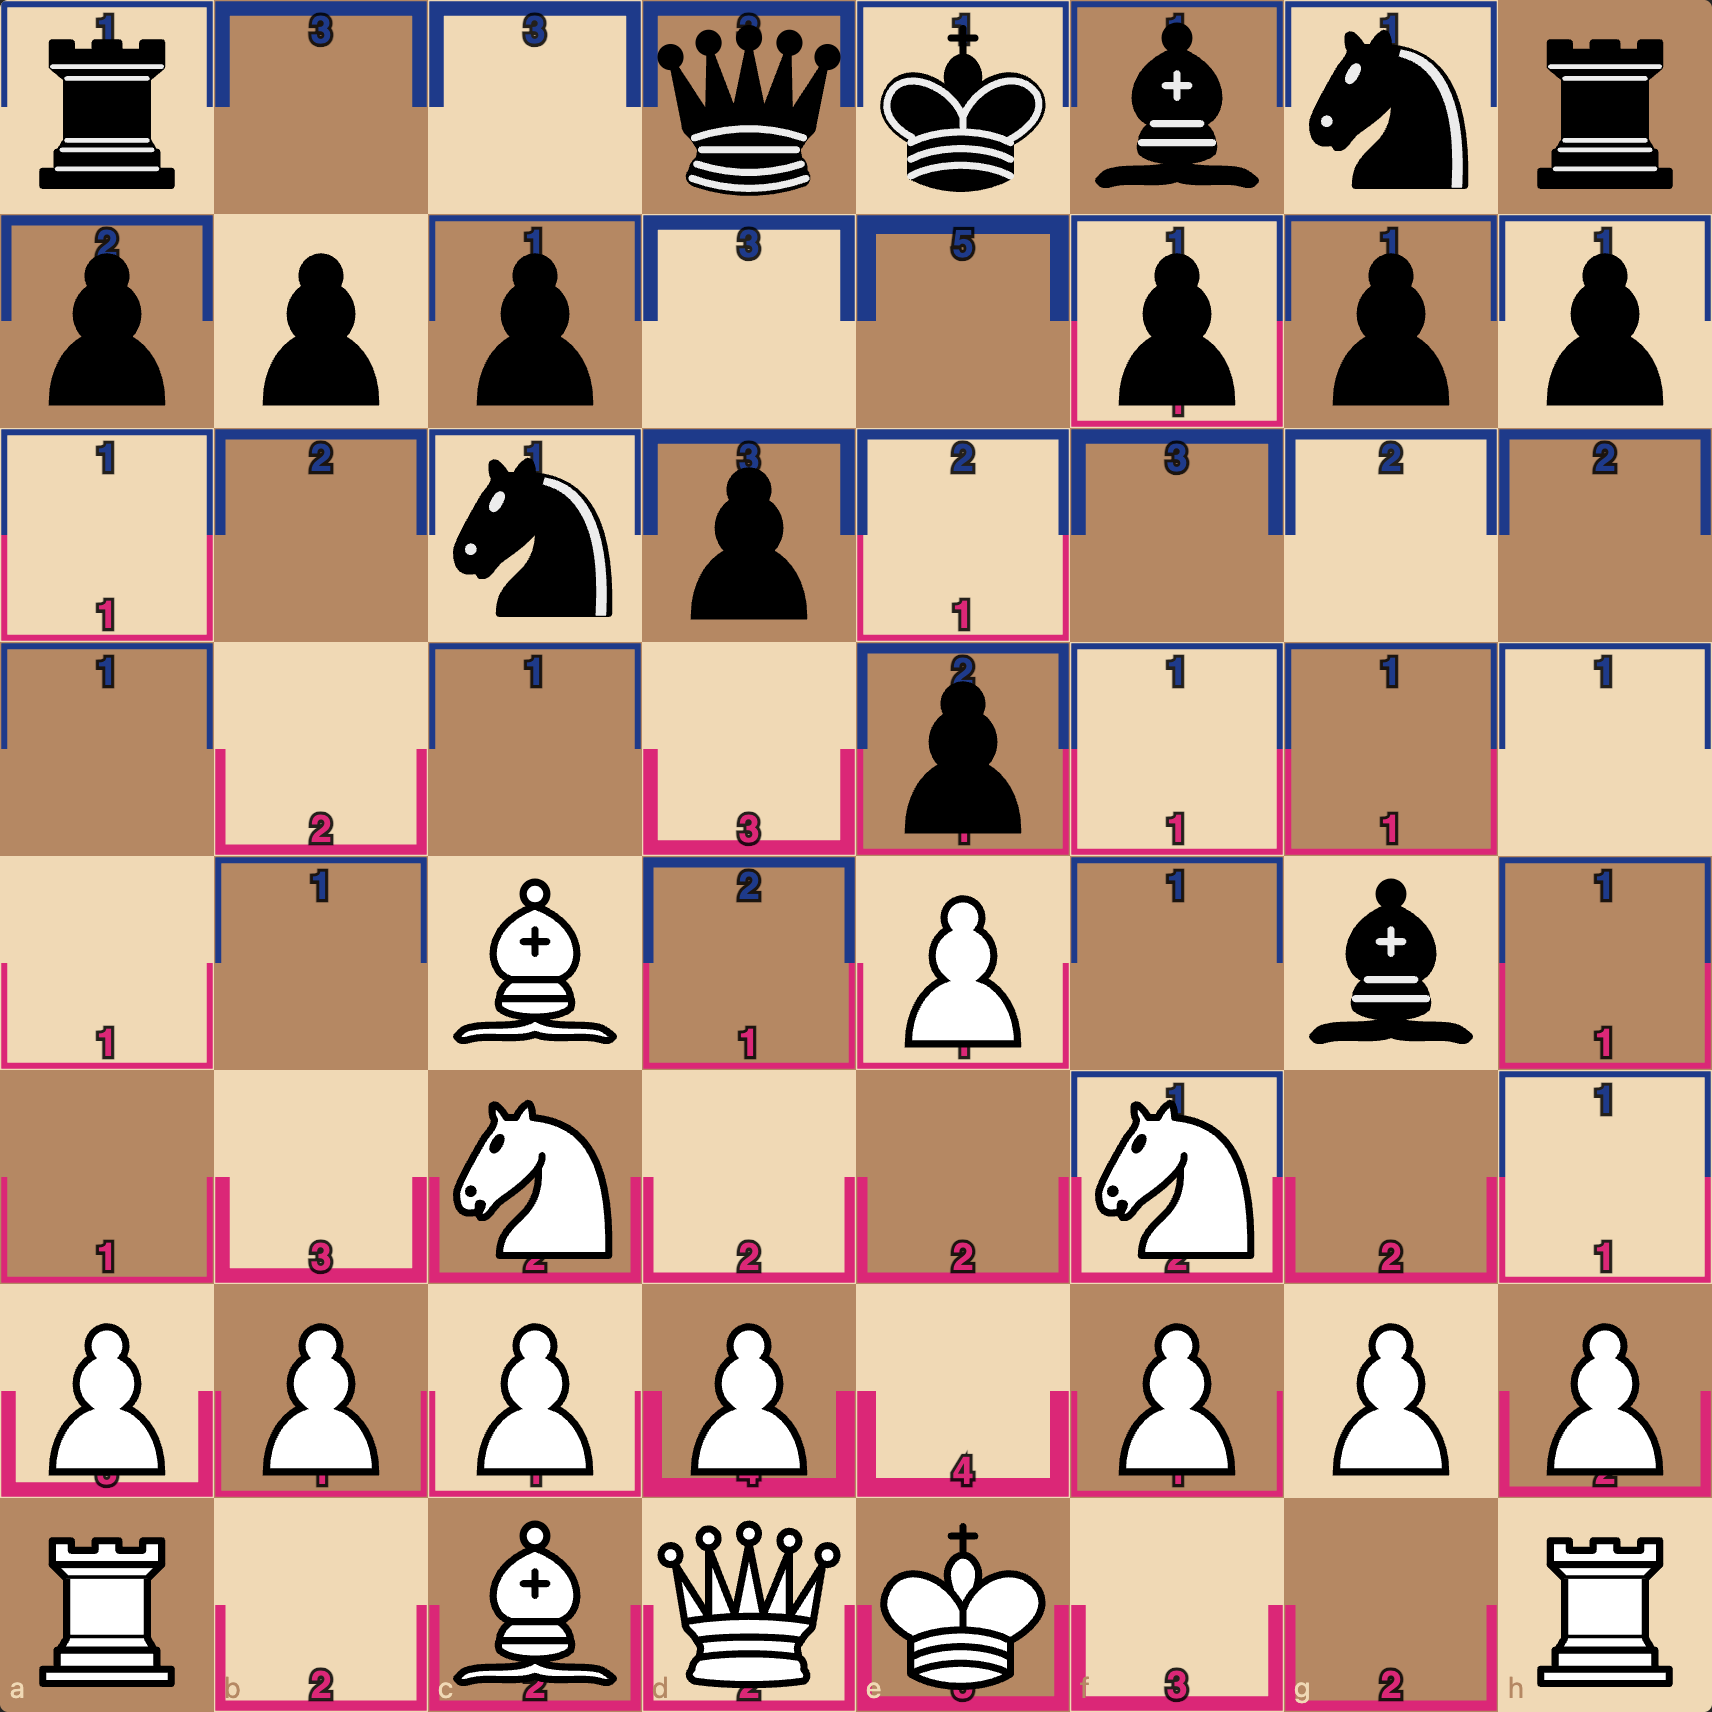
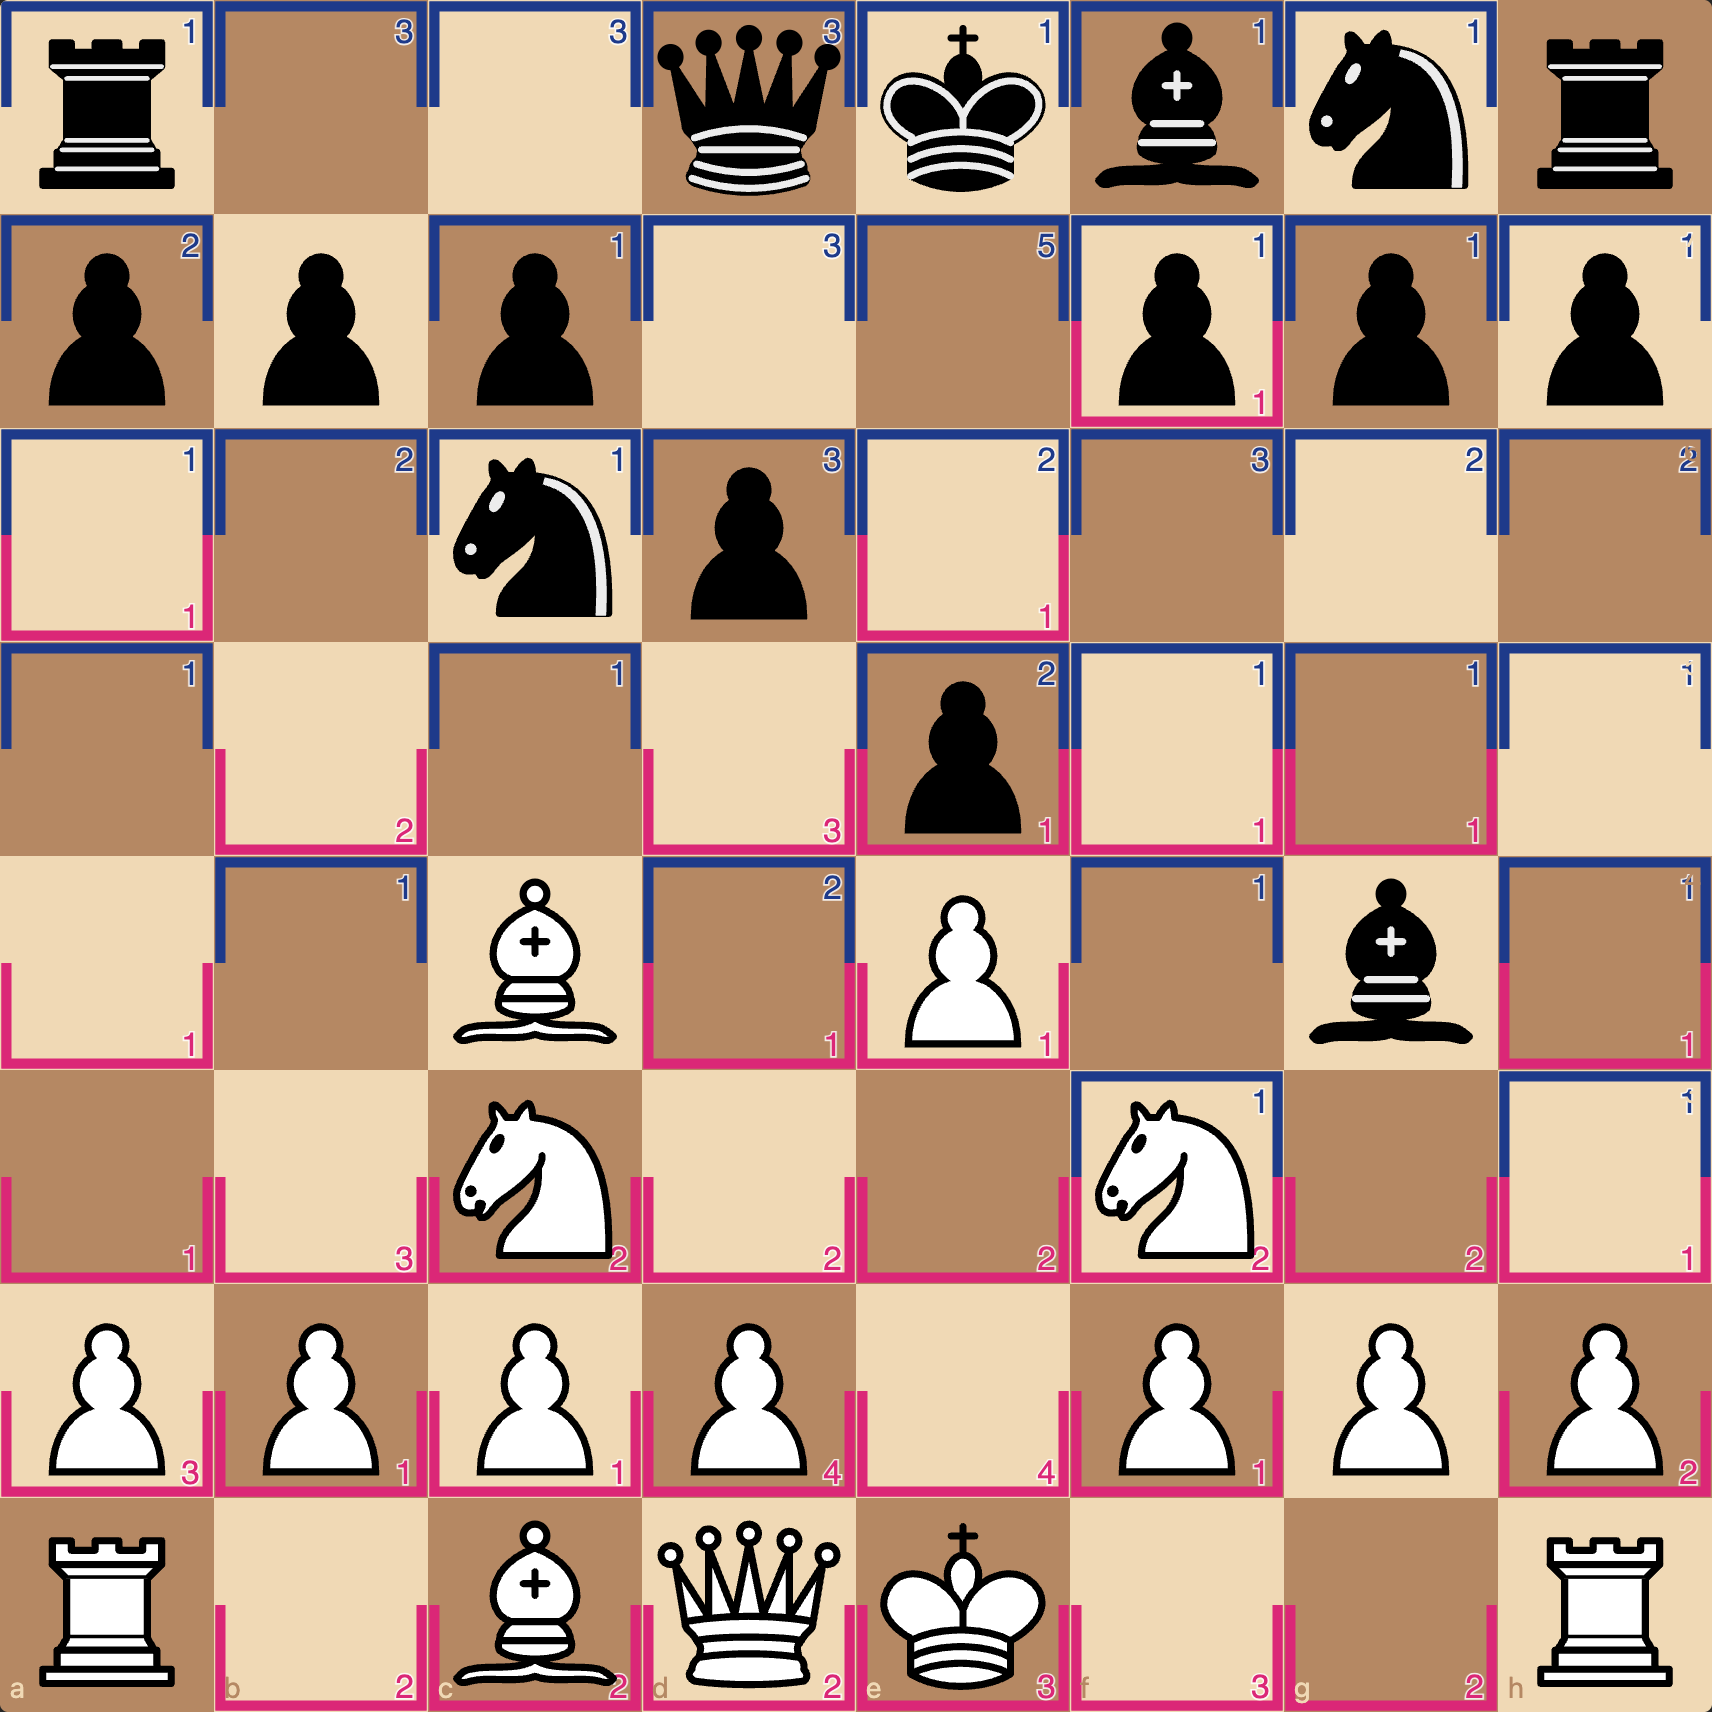
viz 2: pawn stubs / king shuriken / slider lines, no knight arrows

diff --git a/js/viz2-attacks.js b/js/viz2-attacks.js
@@ -1,14 +1,16 @@
 // Visualization 2: attack paths.
-// All arrows use the same uniform style, solid until the first collision, dotted
-// continuation past it for sliders (B/R/Q). Only knights stay curved (arc).
+// Each piece type has its own shape so we can read the board at a glance:
+//   - Pawn: short, thick stub that barely enters the target diagonal. Pawn protection is chunky.
+//   - King: shuriken spokes radiating only inside (and just past) the king's own square. Low range.
+//   - Bishop / Rook / Queen: thin straight line, solid up to the first collision, dotted continuation
+//     to the board edge so we can still see what the slider would attack if the blocker moved.
+//   - Knight: not drawn (we tried curved arcs, they clutter too much; revisit later).
 
 import { parseFEN, pieceAttackVectors, fileOf, rankOf } from './chess-utils.js';
 import { createBoardSVG, renderPieces, squareCenter, SQ, el } from './board.js';
 
-const COLOR_W = '#db2777'; // hot pink for white
-const COLOR_B = '#1e3a8a'; // navy for black
-
-const WIDTH = 3.5;
+const COLOR_W = '#db2777';
+const COLOR_B = '#1e3a8a';
 
 export function render(container, fen, controls) {
   const { board } = parseFEN(fen);
@@ -22,95 +24,119 @@ export function render(container, fen, controls) {
     if (controls.pieceFilter !== 'all' && controls.pieceFilter !== p.piece) continue;
 
     const color = p.color === 'w' ? COLOR_W : COLOR_B;
-    const vectors = pieceAttackVectors(board, i);
-    for (const v of vectors) {
-      drawVector(layers.attack, board, i, v, color, p);
+
+    switch (p.piece) {
+      case 'P':
+        drawPawn(layers.attack, board, i, color);
+        break;
+      case 'N':
+        // Intentionally not drawn. Knight arrows added too much noise in the opening.
+        break;
+      case 'K':
+        drawKing(layers.attack, board, i, color);
+        break;
+      case 'B':
+      case 'R':
+      case 'Q':
+        drawSlider(layers.attack, board, i, color);
+        break;
     }
   }
 
   renderPieces(layers.pieces, board);
 }
 
-function drawVector(layer, board, from, v, color, piece) {
+// Pawn: thick stub from pawn center to ~55% of the way to each diagonal target,
+// so the visible end (with round caps) just crosses into the target square.
+function drawPawn(layer, board, from, color) {
+  const p = board[from];
+  const f = fileOf(from), r = rankOf(from);
+  const dir = p.color === 'w' ? +1 : -1;
   const center = squareCenter(from);
 
-  // Knights, curved arc to the destination, no continuation past.
-  if (v.type === 'jump') {
-    const dest = squareCenter(v.to);
-    drawArrow(layer, center.x, center.y, dest.x, dest.y, color, { curved: true, opacity: 0.85 });
-    return;
-  }
-  // Pawn captures & king moves, single-square solid hop, no continuation past.
-  if (v.type === 'pawn' || v.type === 'king') {
-    const dest = squareCenter(v.to);
-    const target = board[v.to];
-    drawArrow(layer, center.x, center.y, dest.x, dest.y, color, { opacity: target ? 0.9 : 0.55 });
-    return;
-  }
+  for (const df of [-1, +1]) {
+    const nf = f + df, nr = r + dir;
+    if (nf < 0 || nf > 7 || nr < 0 || nr > 7) continue;
+    const targetIdx = nf + (7 - nr) * 8;
+    const target = squareCenter(targetIdx);
 
-  // Sliders, solid up to the first blocker, dotted continuation past.
-  const rayCenters = v.ray.map(squareCenter);
-  const blockerIdx = v.blockedBy != null ? v.ray.indexOf(v.blockedBy) : v.ray.length - 1;
-  const solidEnd = rayCenters[blockerIdx];
+    const fraction = 0.55;
+    const ex = center.x + (target.x - center.x) * fraction;
+    const ey = center.y + (target.y - center.y) * fraction;
 
-  drawArrow(layer, center.x, center.y, solidEnd.x, solidEnd.y, color, { opacity: 0.85 });
-
-  if (v.blockedBy != null && blockerIdx < v.ray.length - 1) {
-    // Continue dotted from solidEnd outward along v.dir until the edge.
-    const [df, dr] = v.dir;
-    let f = fileOf(v.blockedBy), r = rankOf(v.blockedBy);
-    let prev = solidEnd;
-    while (true) {
-      f += df; r += dr;
-      if (f < 0 || f > 7 || r < 0 || r > 7) break;
-      const next = squareCenter(f + (7 - r) * 8);
-      const ln = el('line', {
-        x1: prev.x, y1: prev.y, x2: next.x, y2: next.y,
-        stroke: color, 'stroke-width': WIDTH * 0.8,
-        'stroke-dasharray': '3 6', opacity: 0.55,
-        'stroke-linecap': 'round',
-      });
-      layer.appendChild(ln);
-      prev = next;
-    }
+    const stub = el('line', {
+      x1: center.x, y1: center.y, x2: ex, y2: ey,
+      stroke: color, 'stroke-width': 12, opacity: 0.92, 'stroke-linecap': 'round',
+    });
+    layer.appendChild(stub);
   }
 }
 
-function drawArrow(layer, x1, y1, x2, y2, color, { opacity = 0.85, curved = false } = {}) {
-  const dx = x2 - x1, dy = y2 - y1;
-  const len = Math.hypot(dx, dy) || 1;
-  const ux = dx / len, uy = dy / len;
-  const shorten = SQ * 0.22;
-  const sx = x2 - ux * shorten;
-  const sy = y2 - uy * shorten;
+// King: small star pattern. One spoke per actually-attacked direction, all contained near the
+// king's own square so the king doesn't add 8 short lines to the board.
+function drawKing(layer, board, from, color) {
+  const center = squareCenter(from);
+  const innerR = SQ * 0.30;
+  const outerR = SQ * 0.48;
 
-  if (curved) {
-    const mx = (x1 + sx) / 2 + uy * SQ * 0.30;
-    const my = (y1 + sy) / 2 - ux * SQ * 0.30;
-    const path = el('path', {
-      d: `M ${x1} ${y1} Q ${mx} ${my} ${sx} ${sy}`,
-      fill: 'none', stroke: color, 'stroke-width': WIDTH, opacity,
-      'stroke-linecap': 'round',
-    });
-    layer.appendChild(path);
-  } else {
+  const vectors = pieceAttackVectors(board, from);
+  for (const v of vectors) {
+    if (v.type !== 'king') continue;
+    const target = squareCenter(v.to);
+    const dx = target.x - center.x;
+    const dy = target.y - center.y;
+    const len = Math.hypot(dx, dy) || 1;
+    const ux = dx / len, uy = dy / len;
+
+    const x1 = center.x + ux * innerR;
+    const y1 = center.y + uy * innerR;
+    const x2 = center.x + ux * outerR;
+    const y2 = center.y + uy * outerR;
+
     const ln = el('line', {
-      x1, y1, x2: sx, y2: sy,
-      stroke: color, 'stroke-width': WIDTH, opacity, 'stroke-linecap': 'round',
+      x1, y1, x2, y2,
+      stroke: color, 'stroke-width': 3, opacity: 0.85, 'stroke-linecap': 'round',
     });
     layer.appendChild(ln);
   }
+}
 
-  // Arrowhead
-  const tipX = x2 - ux * shorten * 0.3;
-  const tipY = y2 - uy * shorten * 0.3;
-  const ah = SQ * 0.14;
-  const px = -uy, py = ux;
-  const arrow = el('polygon', {
-    points: `${tipX},${tipY} ${tipX - ux * ah + px * ah * 0.55},${tipY - uy * ah + py * ah * 0.55} ${tipX - ux * ah - px * ah * 0.55},${tipY - uy * ah - py * ah * 0.55}`,
-    fill: color, opacity,
-  });
-  layer.appendChild(arrow);
+// Slider: per ray, solid to first collision (or edge), then dotted past it to the board edge.
+function drawSlider(layer, board, from, color) {
+  const center = squareCenter(from);
+  const vectors = pieceAttackVectors(board, from);
+
+  for (const v of vectors) {
+    if (v.type !== 'ray') continue;
+
+    const rayCenters = v.ray.map(squareCenter);
+    const blockerIdx = v.blockedBy != null ? v.ray.indexOf(v.blockedBy) : v.ray.length - 1;
+    const solidEnd = rayCenters[blockerIdx];
+
+    const solid = el('line', {
+      x1: center.x, y1: center.y, x2: solidEnd.x, y2: solidEnd.y,
+      stroke: color, 'stroke-width': 3, opacity: 0.9, 'stroke-linecap': 'round',
+    });
+    layer.appendChild(solid);
+
+    if (v.blockedBy != null && blockerIdx < v.ray.length - 1) {
+      const [df, dr] = v.dir;
+      let f = fileOf(v.blockedBy), r = rankOf(v.blockedBy);
+      let prev = solidEnd;
+      while (true) {
+        f += df; r += dr;
+        if (f < 0 || f > 7 || r < 0 || r > 7) break;
+        const next = squareCenter(f + (7 - r) * 8);
+        const dotted = el('line', {
+          x1: prev.x, y1: prev.y, x2: next.x, y2: next.y,
+          stroke: color, 'stroke-width': 2.5, opacity: 0.55,
+          'stroke-dasharray': '4 5', 'stroke-linecap': 'round',
+        });
+        layer.appendChild(dotted);
+        prev = next;
+      }
+    }
+  }
 }
 
 export const DEFAULTS = { sideFilter: 'both', pieceFilter: 'all' };
@@ -124,7 +150,7 @@ export function buildControls(root, state, onChange) {
   sideSelect.addEventListener('change', () => { state.sideFilter = sideSelect.value; onChange(); });
 
   const pieceLabel = document.createElement('label');
-  pieceLabel.innerHTML = `Piece <select><option value="all">all</option><option value="P">pawns</option><option value="N">knights</option><option value="B">bishops</option><option value="R">rooks</option><option value="Q">queens</option><option value="K">kings</option></select>`;
+  pieceLabel.innerHTML = `Piece <select><option value="all">all</option><option value="P">pawns</option><option value="B">bishops</option><option value="R">rooks</option><option value="Q">queens</option><option value="K">kings</option></select>`;
   const pieceSelect = pieceLabel.querySelector('select');
   pieceSelect.value = state.pieceFilter;
   pieceSelect.addEventListener('change', () => { state.pieceFilter = pieceSelect.value; onChange(); });
@@ -133,8 +159,9 @@ export function buildControls(root, state, onChange) {
 }
 export function legendHTML() {
   return `
-    <div>Solid arrow = attack up to the first piece in the way. Dotted continuation = the rest of the ray (what the slider would attack if the blocker moved).</div>
-    <div style="margin-top: 8px;">All arrows use the same style; only knights are curved (because their move isn't a straight line).</div>
-    <div style="margin-top: 8px;">Use the side &amp; piece filters above to declutter the opening positions.</div>
+    <div><b>Pawn:</b> thick stub barely crossing into each diagonal target. A pawn's protection is a chunky, solid thing.</div>
+    <div style="margin-top: 6px;"><b>King:</b> shuriken spokes inside its own square. Short range, no clutter in the eight neighbours.</div>
+    <div style="margin-top: 6px;"><b>Bishop / Rook / Queen:</b> straight line, solid up to the first piece in the way, dotted continuation to the board edge so we see what the slider <i>would</i> attack if the blocker moved.</div>
+    <div style="margin-top: 6px;"><b>Knight:</b> not drawn for now. The arcs read fine in isolation but compound too much in the opening.</div>
   `;
 }

diff --git a/js/viz1-control.js b/js/viz1-control.js
@@ -19,9 +19,9 @@ const MAX_INT = 4;
 function rgb([r, g, b], a = 1) { return `rgba(${r}, ${g}, ${b}, ${a})`; }
 
 function widthFor(n) {
-  // Maps attacker count → stroke width in px.
-  if (n <= 0) return 0;
-  return Math.min(2.5 + (n - 1) * 1.8, 2.5 + (MAX_INT - 1) * 1.8); // 2.5, 4.3, 6.1, 7.9
+  // Constant width regardless of attacker count. Intensity is conveyed by the digit,
+  // not the stroke (varying widths made the borders look uneven and a bit ugly).
+  return n > 0 ? 4.3 : 0;
 }
 
 export function render(container, fen, controls) {
@@ -89,26 +89,27 @@ function drawTopHalf(layer, x, y, color, width) {
 }
 
 function drawCounts(layer, ctrl) {
-  // Both counts horizontally centered: white near the bottom edge, black near the top.
-  // This keeps them off the file/rank coordinate labels in the corners and avoids the
-  // diagonal-opposition visual.
+  // Both counts on the right side of each square: white near the bottom, black near the top.
+  // Right-anchored keeps them off the pieces (which are centered) and avoids the diagonal-opposition
+  // pattern. They still sit on each side's half of the square.
   for (let i = 0; i < 64; i++) {
     const wn = ctrl[i].w.length;
     const bn = ctrl[i].b.length;
     if (wn === 0 && bn === 0) continue;
     const { x, y } = squareXY(i);
-    const cx = x + SQ / 2;
-    if (wn > 0) addCount(layer, cx, y + SQ - 6, wn, WHITE_RGB);
-    if (bn > 0) addCount(layer, cx, y + 18, bn, BLACK_RGB);
+    const rx = x + SQ - 6;
+    if (wn > 0) addCount(layer, rx, y + SQ - 6, wn, WHITE_RGB);
+    if (bn > 0) addCount(layer, rx, y + 18, bn, BLACK_RGB);
   }
 }
 
 function addCount(layer, x, y, n, rgbArr) {
+  // Lighter, more natural-looking digits: smaller weight, thinner outline.
   const t = el('text', {
     x, y,
     fill: rgb(rgbArr),
-    stroke: 'rgba(0,0,0,0.85)', 'stroke-width': 3, 'paint-order': 'stroke',
-    'font-size': 16, 'font-weight': 800, 'text-anchor': 'middle',
+    stroke: 'rgba(255,255,255,0.85)', 'stroke-width': 1.5, 'paint-order': 'stroke',
+    'font-size': 14, 'font-weight': 500, 'text-anchor': 'end',
     'font-family': 'sans-serif',
   });
   t.textContent = String(n);
@@ -145,8 +146,8 @@ export function buildControls(root, state, onChange) {
 }
 export function legendHTML() {
   return `
-    <div><b>Borders mode:</b> each side colors only its own half of the square's border. White paints the bottom half (pink), black the top (blue); contested squares show both colors meeting at the side edges. Thicker border = more attackers (capped at 4).</div>
+    <div><b>Borders mode:</b> each side colors only its own half of the square's border. White paints the bottom half (pink), black the top (blue); contested squares show both colors meeting at the side edges. Border thickness is constant; the digit tells us how many attackers.</div>
     <div style="margin-top: 8px;"><b>Numbers mode:</b> just the digits, for when the borders feel busy.</div>
-    <div style="margin-top: 8px;">White's count sits at the bottom of each square (white's side), black's count at the top, both centered to keep clear of the file/rank labels.</div>
+    <div style="margin-top: 8px;">White's count sits at the bottom-right of each square (white's side), black's at the top-right. Right-aligned so they stay off the piece glyph.</div>
   `;
 }
